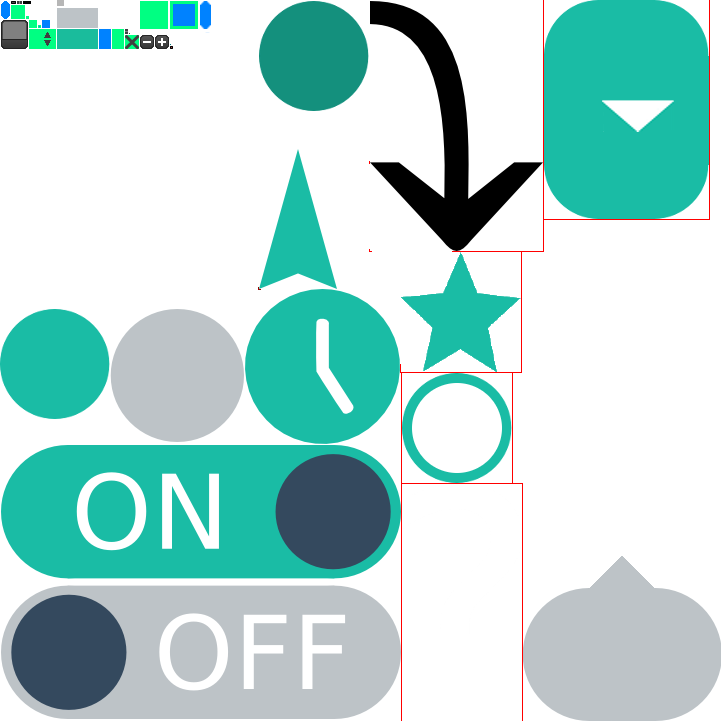
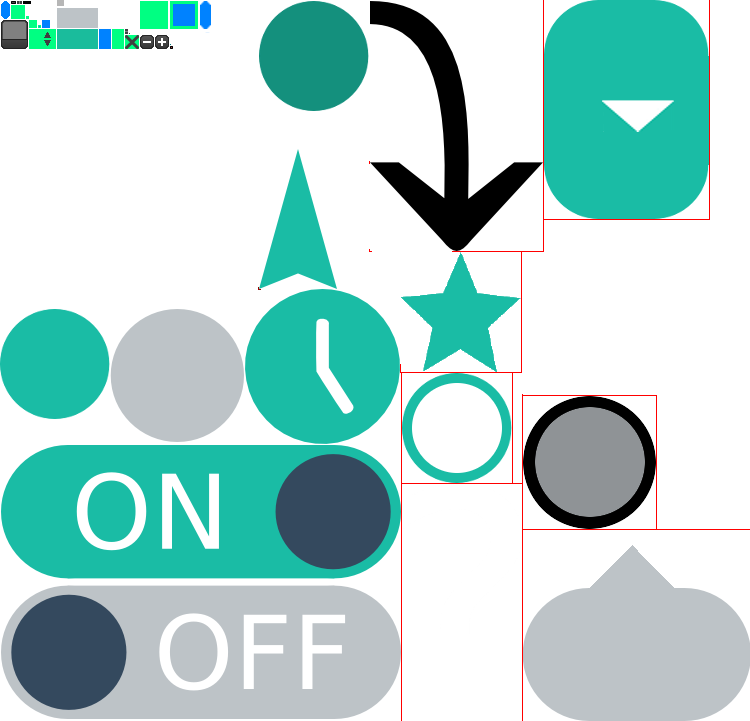
Created a design for the dialogs

diff --git a/core/src/de/fau/cs/mad/fly/ui/AddUserButtonListener.java b/core/src/de/fau/cs/mad/fly/ui/AddUserButtonListener.java
@@ -6,6 +6,7 @@ import com.badlogic.gdx.scenes.scene2d.Actor;
 import com.badlogic.gdx.scenes.scene2d.Stage;
 import com.badlogic.gdx.scenes.scene2d.ui.Dialog;
 import com.badlogic.gdx.scenes.scene2d.ui.Skin;
+import com.badlogic.gdx.scenes.scene2d.ui.TextButton;
 import com.badlogic.gdx.scenes.scene2d.ui.TextField;
 import com.badlogic.gdx.scenes.scene2d.utils.ChangeListener;
 
@@ -57,7 +58,7 @@ public class AddUserButtonListener extends ChangeListener {
     public void changed(ChangeEvent event, Actor actor) {
         String name = newUserField.getText();
         Stage stage = event.getStage();
-        Dialog dialog = new Dialog("", skin);
+        Dialog dialog = new Dialog("", skin, "dialog");
         boolean userExists = false;
         
         if (!"".equals(name)) {
@@ -83,7 +84,8 @@ public class AddUserButtonListener extends ChangeListener {
         } else {
             dialog.text(I18n.t("NullUserName"));
         }
-        dialog.button(I18n.t("ok"));
+        TextButton button = new TextButton(I18n.t("ok"), skin, "rounded");
+        dialog.button(button);
         dialog.show(stage);
     }
     
